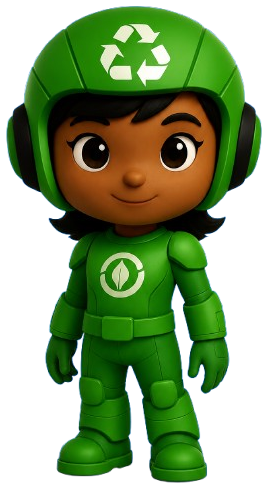
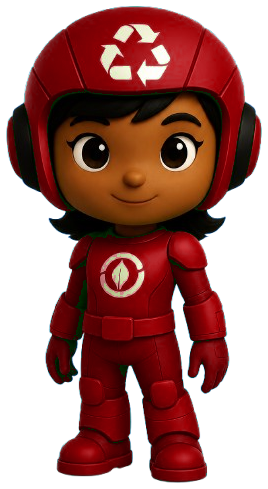
fiz ajuste de erro dos bonecos

diff --git a/frontend/src/game/playerAnim.ts b/frontend/src/game/playerAnim.ts
@@ -146,6 +146,9 @@ export class PlayerAnim {
 export interface HeroPoseInput { stateT: number; hurtT: number; landT: number; dieT: number; vy: number; speed: number }
 /** Animação e índice de quadro dos heróis. O índice de animações em laço é "bruto" (o assets enrola com módulo). */
 export function heroPose(state: PlayerState, i: HeroPoseInput): { anim: string; index: number } {
+  /** Locomoção pela velocidade: coletar/aterrissar em movimento não pode "agachar" o herói. */
+  const moving = (): { anim: string; index: number } => i.speed > 285 ? { anim: 'run', index: Math.floor(i.stateT * clamp(11 + (i.speed - 250) / 60, 11, 16)) }
+    : i.speed > 25 ? { anim: 'walk', index: Math.floor(i.stateT * clamp(6 + i.speed / 45, 7, 11)) } : { anim: 'idle', index: Math.floor(i.stateT * 5) };
   switch (state) {
     case 'death': return { anim: 'death', index: clamp(Math.floor(i.dieT * 5), 0, 3) };
     case 'hurt': return { anim: 'hurt', index: clamp(Math.floor((HURT_TIME - i.hurtT) * 7), 0, 2) };
@@ -156,10 +159,10 @@ export function heroPose(state: PlayerState, i: HeroPoseInput): { anim: string; 
     case 'jumpStart': return { anim: 'jump', index: 0 };
     case 'jumpRise': case 'jumpApex': case 'victory': return { anim: 'jump', index: 1 };
     case 'fall': return { anim: 'fall', index: Math.floor(i.stateT * 8) };
-    case 'landing': return { anim: 'land', index: i.landT > LAND_TIME / 2 ? 0 : 1 };
-    case 'collect': case 'interact': return { anim: 'land', index: 0 };
-    case 'run': return { anim: 'run', index: Math.floor(i.stateT * clamp(11 + (i.speed - 250) / 60, 11, 16)) };
-    case 'walk': case 'climb': return { anim: 'walk', index: Math.floor(i.stateT * clamp(6 + i.speed / 45, 7, 11)) };
+    // a pose agachada só vale com o herói quase parado; correndo, segue o ciclo de corrida
+    case 'landing': return i.speed > 60 ? moving() : { anim: 'land', index: i.landT > LAND_TIME / 2 ? 0 : 1 };
+    case 'collect': case 'interact': return moving();
+    case 'run': case 'walk': case 'climb': return moving().anim === 'idle' && state !== 'climb' ? { anim: state, index: Math.floor(i.stateT * 8) } : state === 'run' ? { anim: 'run', index: Math.floor(i.stateT * clamp(11 + (i.speed - 250) / 60, 11, 16)) } : { anim: 'walk', index: Math.floor(i.stateT * clamp(6 + i.speed / 45, 7, 11)) };
     default: return { anim: 'idle', index: Math.floor(i.stateT * 5) };
   }
 }

diff --git a/frontend/tests/characterSprites.test.ts b/frontend/tests/characterSprites.test.ts
@@ -24,15 +24,22 @@ describe('sprites reais dos heróis', () => {
   }
   it('mapeia estados do jogo para animações existentes', () => {
     const map: Record<string, string> = { idle: 'idle', walk: 'walk', run: 'run', jumpStart: 'jump', jumpRise: 'jump', fall: 'fall', landing: 'land', hurt: 'hurt', attack: 'attack', death: 'death' };
-    for (const [state, anim] of Object.entries(map)) expect(heroPose(state as never, base).anim).toBe(anim);
+    for (const [state, anim] of Object.entries(map)) expect(heroPose(state as never, { ...base, speed: state === 'landing' ? 0 : 200 }).anim).toBe(anim);
   });
   it('morte e dano avançam e terminam no último quadro', () => {
     expect(heroPose('death', { ...base, dieT: 0 }).index).toBe(0);
     expect(heroPose('death', { ...base, dieT: 5 }).index).toBe(3);
     expect(heroPose('hurt', { ...base, hurtT: 0.45 }).index).toBe(0);
   });
+  it('coletar ou aterrissar correndo não agacha o herói', () => {
+    for (const st of ['collect', 'interact', 'landing'] as const) expect(heroPose(st, { ...base, speed: 320 }).anim).toBe('run');
+    expect(heroPose('collect', { ...base, speed: 120 }).anim).toBe('walk');
+    expect(heroPose('landing', { ...base, speed: 0 }).anim).toBe('land'); // parado, aterrissar ainda agacha
+    expect(heroPose('collect', { ...base, speed: 0 }).anim).toBe('idle');
+  });
   it('só o uniforme é recolorido nas skins', () => {
     expect(suitTintFor('skin-crisoman-verde')).toBeNull();
-    expect(suitTintFor('skin-crisogirl-fogo')?.hue).toBe(11);
+    expect(suitTintFor('skin-crisogirl-fogo')?.hue).toBe(24);
+    expect(suitTintFor('skin-crisogirl-rosa')?.hue).toBe(358); // Crisogirl padrão = vermelha
   });
 });

diff --git a/frontend/src/game/assets.ts b/frontend/src/game/assets.ts
@@ -18,7 +18,8 @@ export function suitTintFor(skinId: string): SuitTint | null {
   if (/urbano|urbana/.test(skinId)) return { hue: 205, sat: 0.22, light: 1.08 };
   if (/natureza|floresta/.test(skinId)) return { hue: 28, sat: 0.78, light: 0.92 };
   if (/agua/.test(skinId)) return { hue: 205, sat: 1.0, light: 1.06 };
-  if (/fogo/.test(skinId)) return { hue: 11, sat: 1.1, light: 1.0 };
+  if (/fogo/.test(skinId)) return { hue: 24, sat: 1.15, light: 1.0 };
+  if (skinId === 'skin-crisogirl-rosa') return { hue: 358, sat: 1.12, light: 0.98 }; // visual padrão da Crisogirl: uniforme vermelho
   return null;
 }
 function tintSheet(img: HTMLImageElement, tint: SuitTint): CanvasImageSource {
